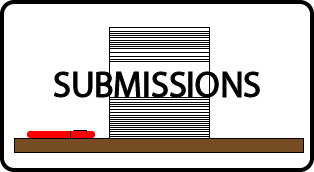
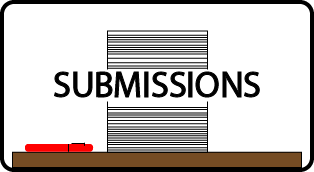
Added tiles to TA homepage, removed Courses Table on homepage and modified the submissions tile.

Changed region(s): [[0.0287, 0.5523, 0.9745, 0.9884], [0.3153, 0.1453, 0.6879, 0.407], [0.6592, 0.436, 0.6879, 0.5233]]

diff --git a/app/controllers/courses_controller.rb b/app/controllers/courses_controller.rb
@@ -30,16 +30,41 @@ class CoursesController < ApplicationController
 
   def index
     #need to distinguish between student and instructor
-    @user = current_instructor
-    @isInstructor = true
-    if @user == nil
+    # @user = current_instructor
+    # @isInstructor = true
+    # if @user == nil
+    #   #a student is signed in
+    #   @user = current_student
+    #   @isStudent = true
+    #   @isInstructor = false
+    #   @courses = @user.courses
+    # else
+    #   #an instructor is singed in
+    #   @courses = @user.courses
+    # end
+    
+    if ( student_signed_in? )
       #a student is signed in
       @user = current_student
       @isStudent = true
       @isInstructor = false
       @courses = @user.courses
-    else
+      @isAssistant  = false
+      
+    elsif( instructor_signed_in? )
       #an instructor is singed in
+      @user = current_instructor
+      @isInstructor = true
+      @isStudent    = false
+      @isAssistant  = false
+      @courses = @user.courses
+      
+    elsif( assistant_signed_in? )
+      #an assistant is signed in
+      @user = current_assistant
+      @isAssistant  = true
+      @isInstructor = false
+      @isStudent    = false
       @courses = @user.courses
     end
   end
